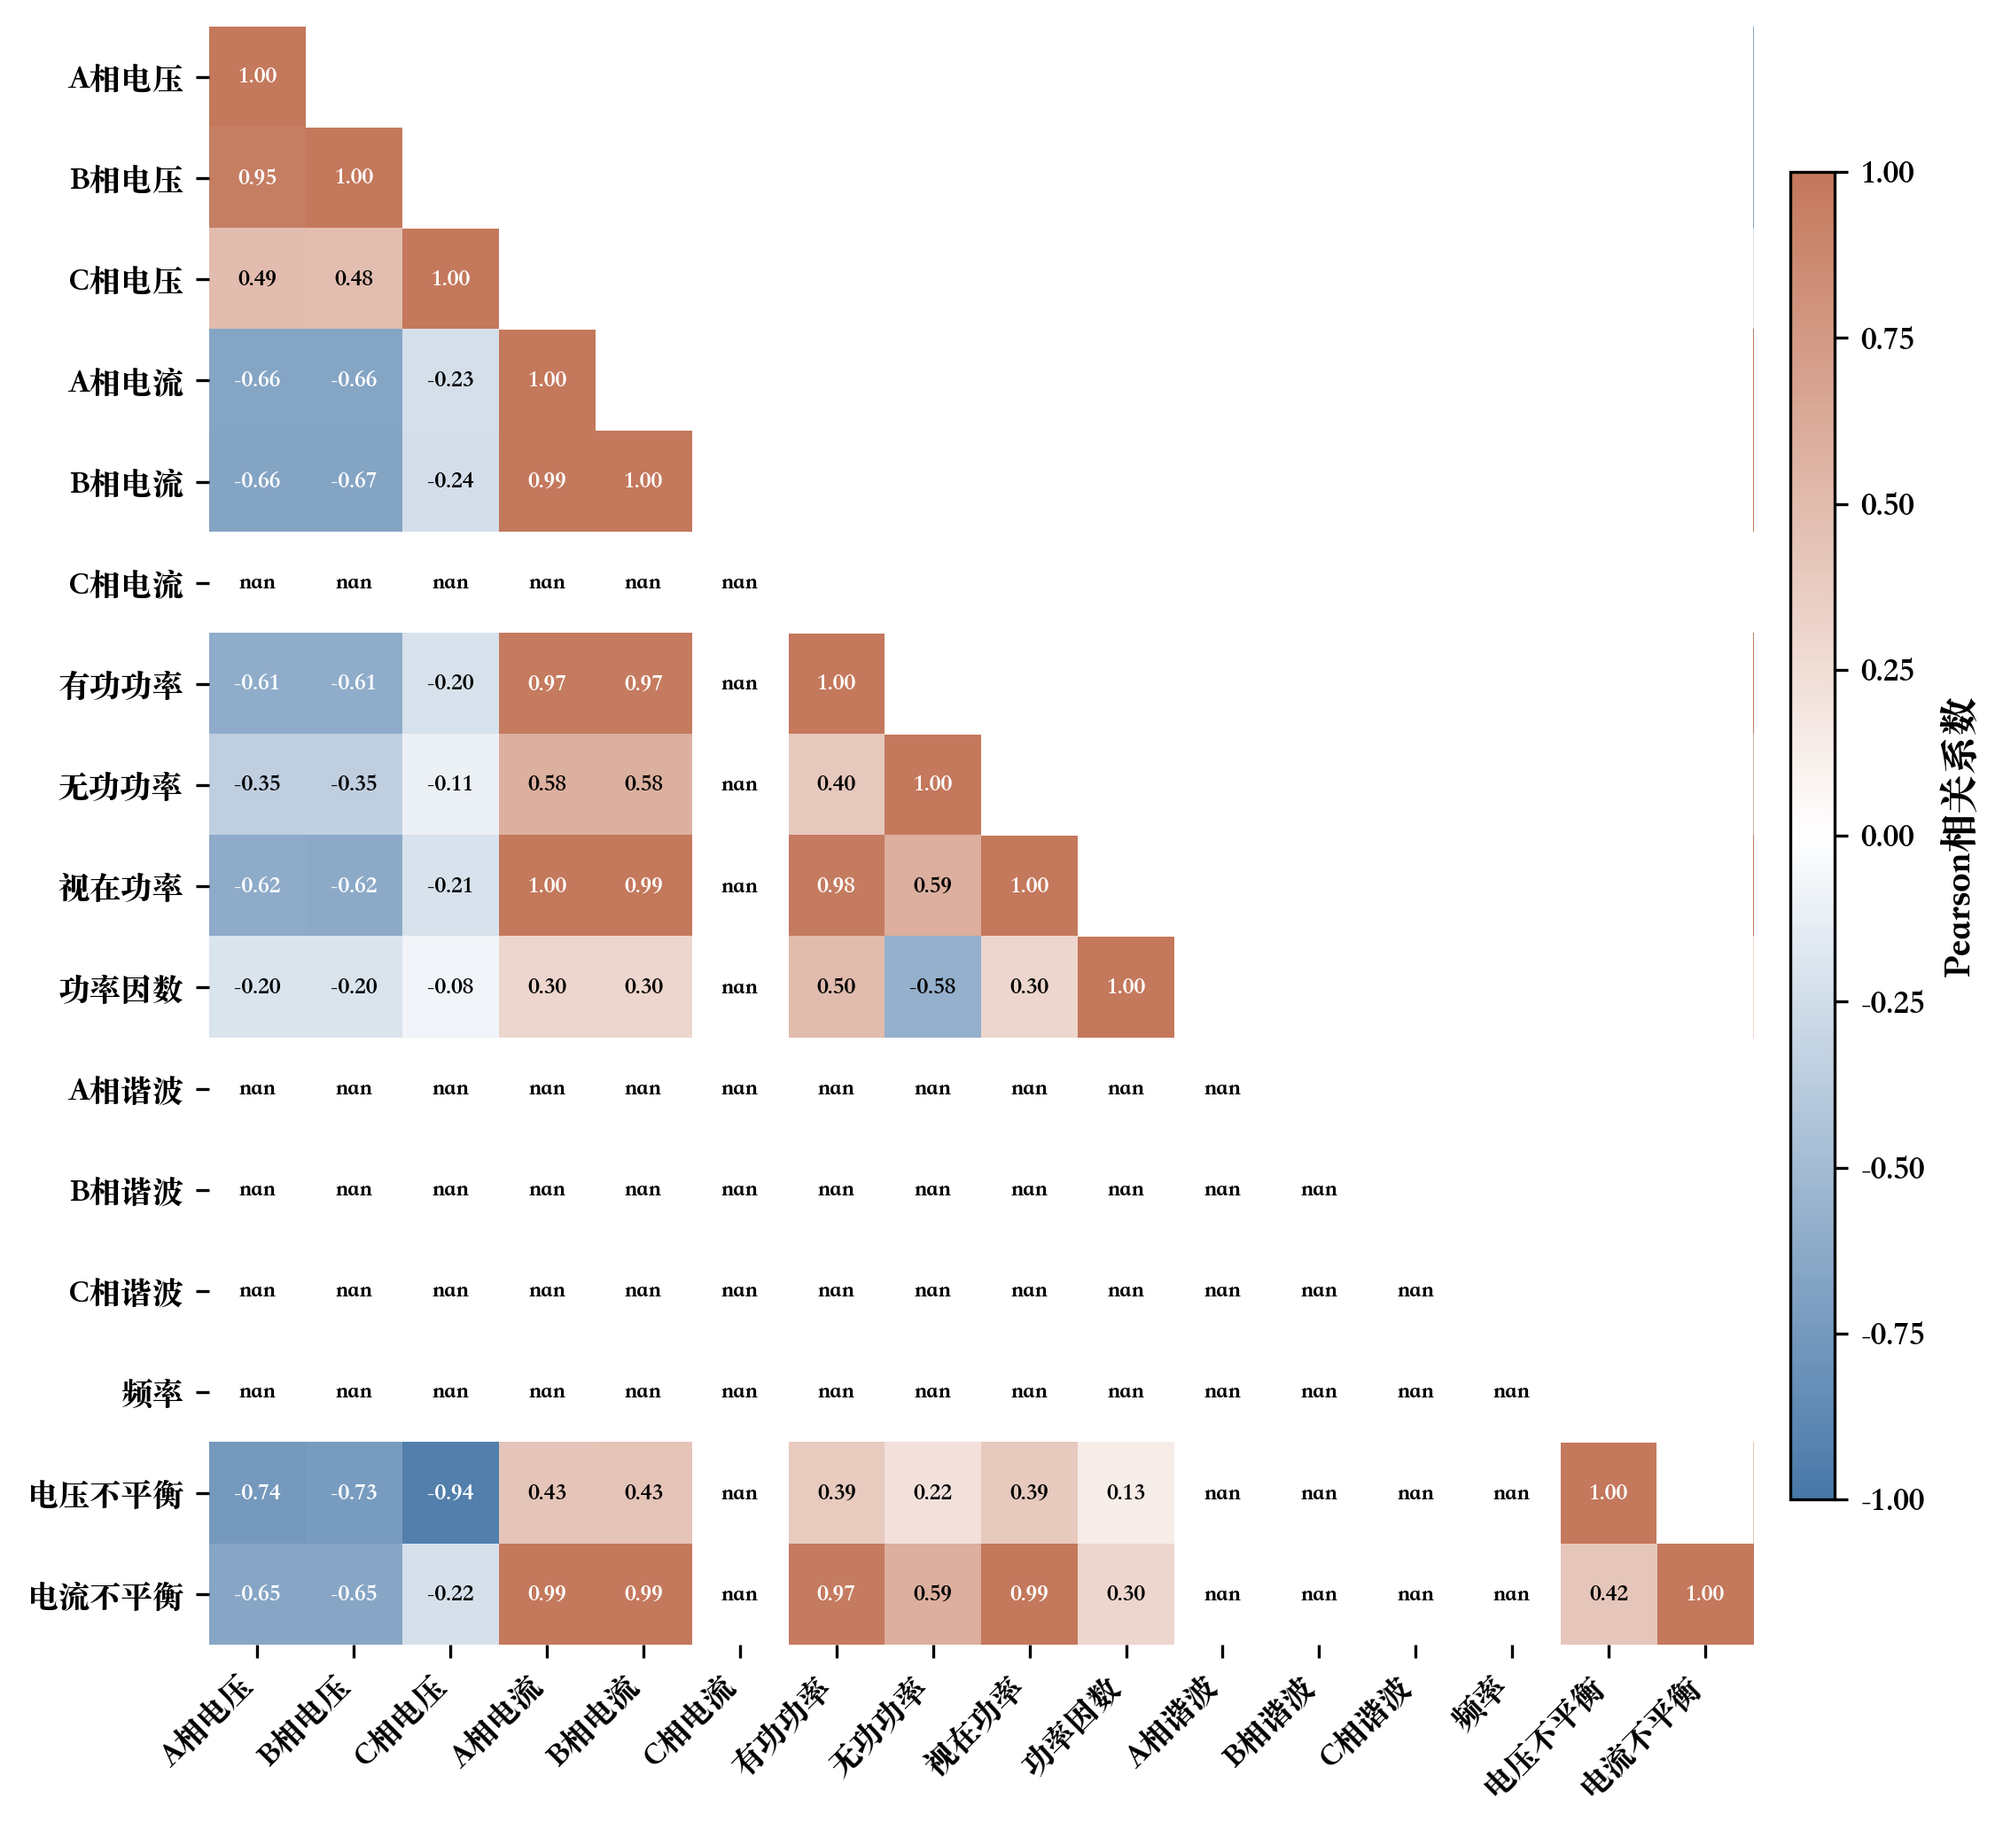
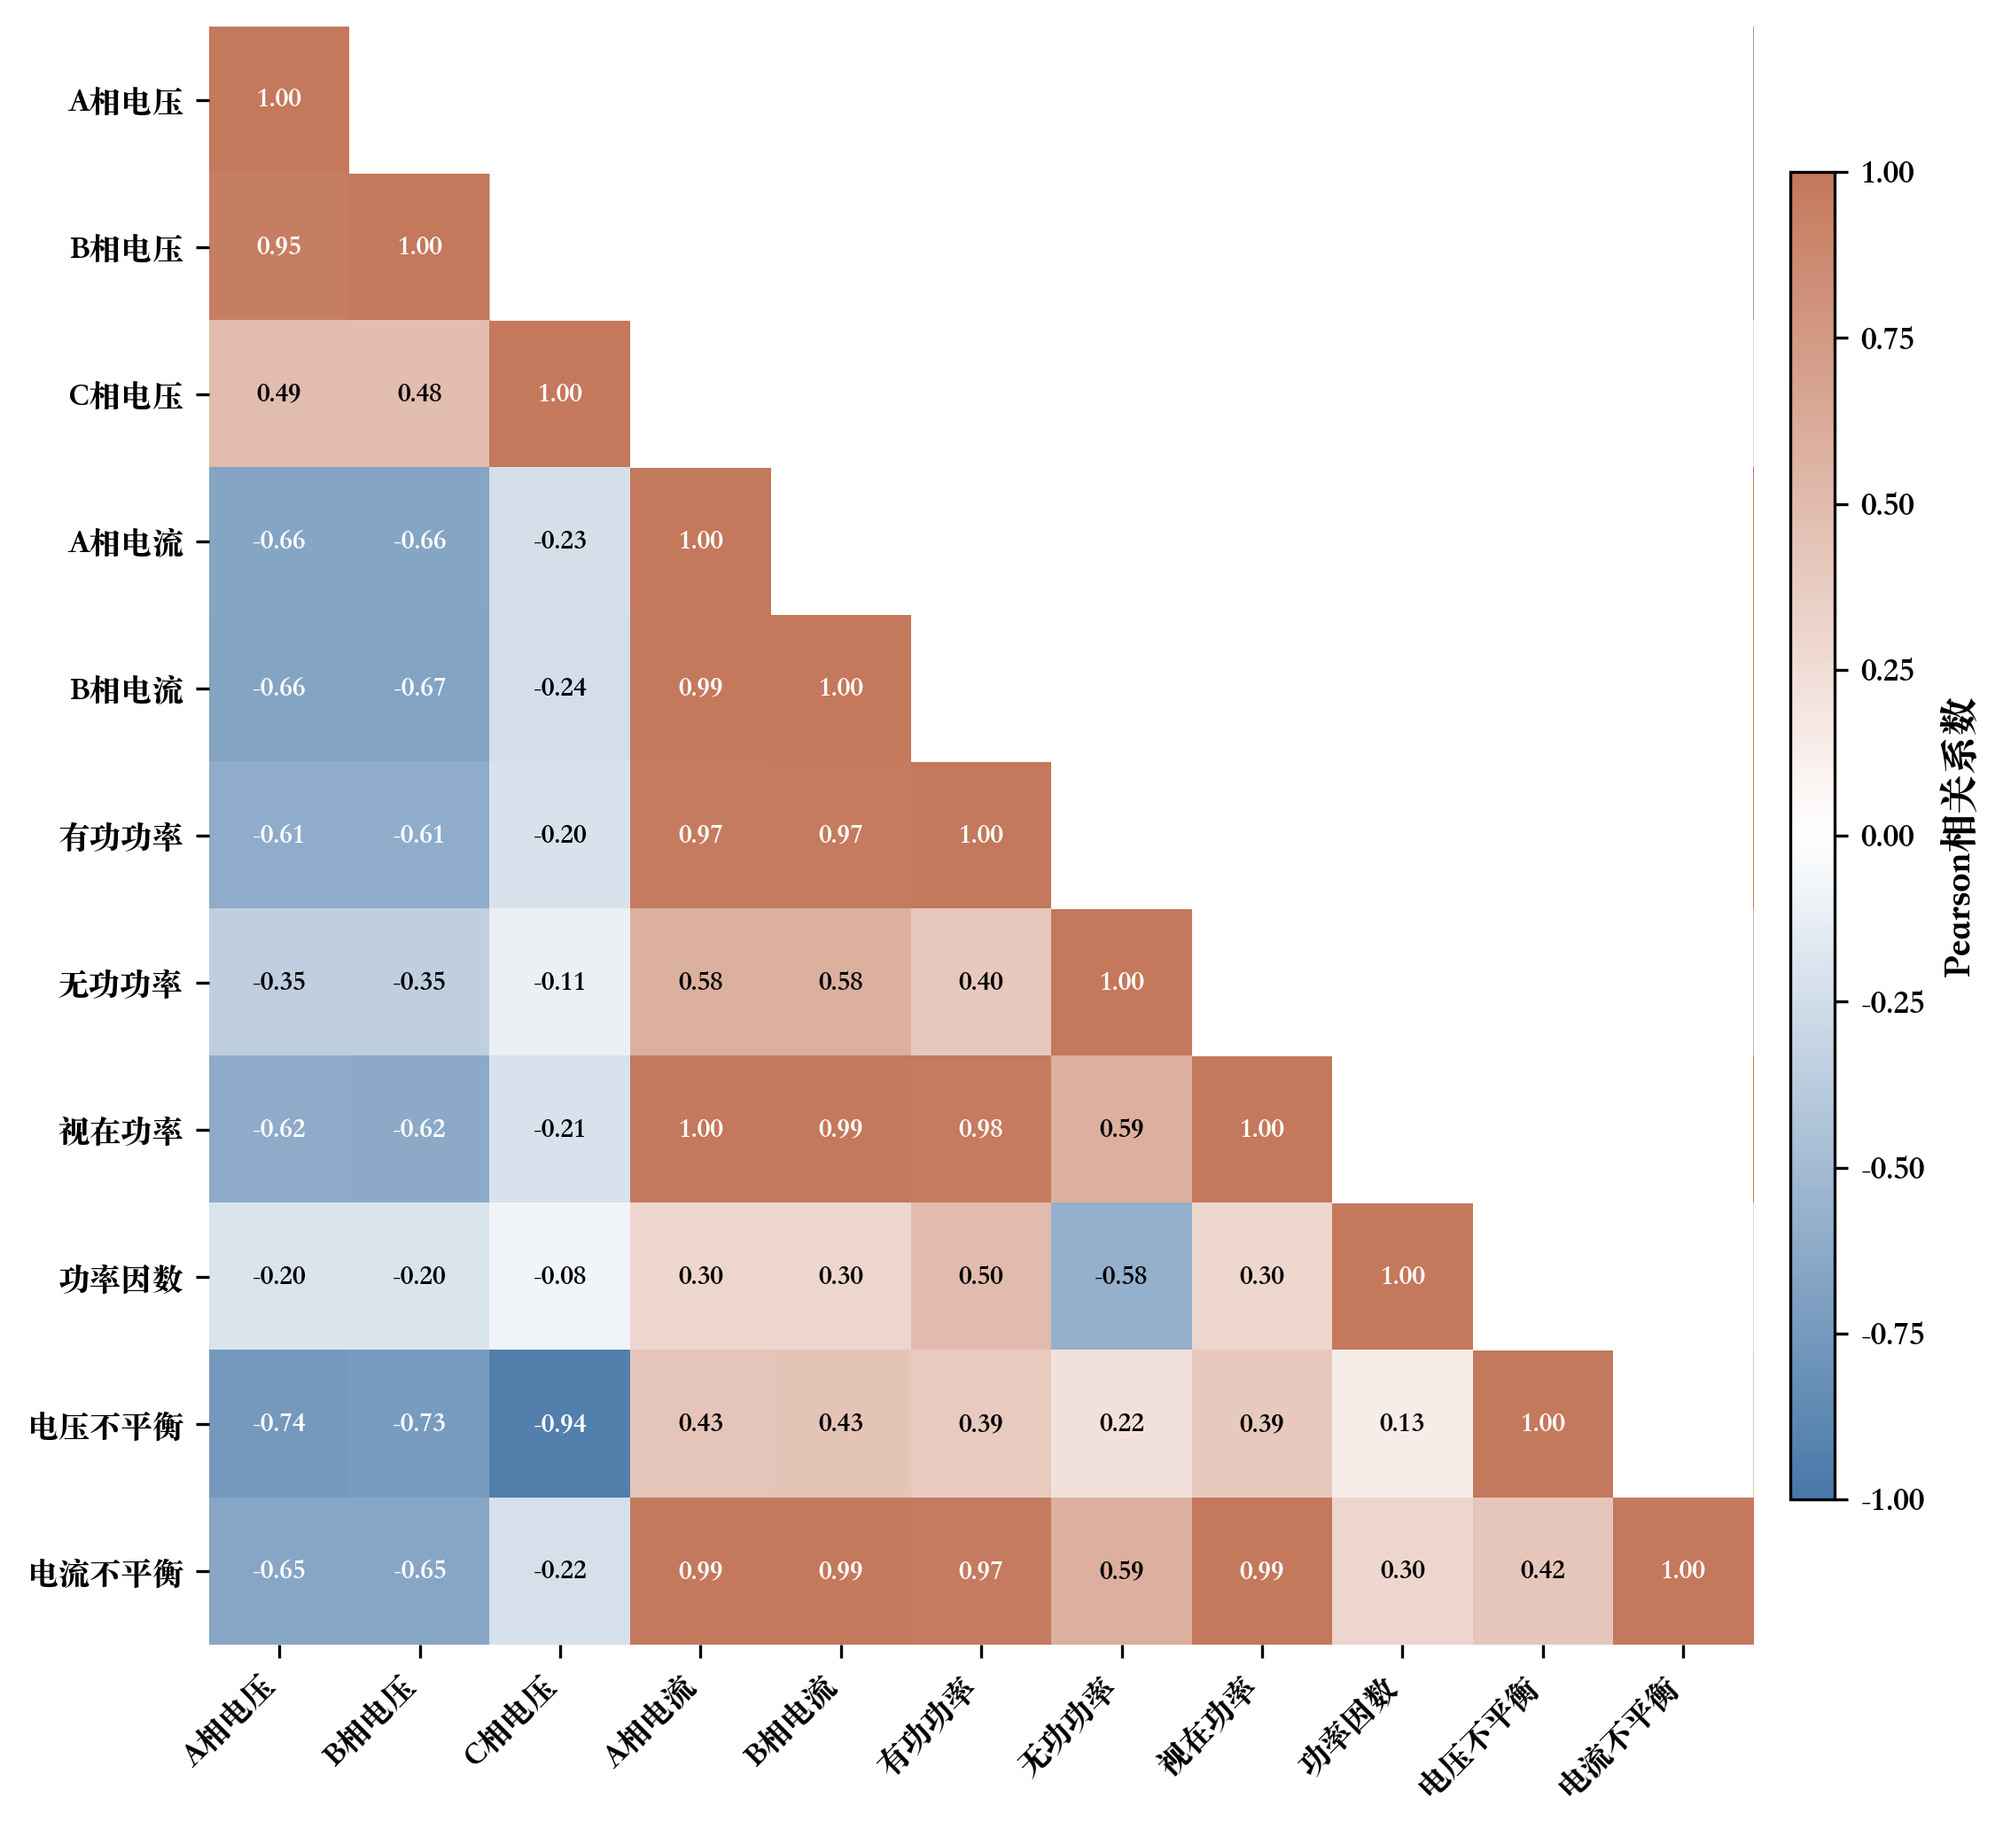
更改health map

diff --git a/code/figures/scripts/chap5/fig_5_sliding_window.py b/code/figures/scripts/chap5/fig_5_sliding_window.py
@@ -109,15 +109,23 @@ for i, (ws, we) in enumerate(windows[:5]):   # 只展示前5个窗口
 ax2.set_yticks([])
 ax2.set_xticks([])
 ax2.set_ylabel('窗口/Window', fontsize=10.5)
-# 标注步幅
-ax2.annotate('', xy=(windows[1][0], -0.25), xytext=(windows[0][0], -0.25),
-             arrowprops=dict(arrowstyle='<->', color='#555555', lw=1.0))
-ax2.text((windows[0][0] + windows[1][0]) / 2, -0.42,
-         f'步幅={stride}', ha='center', fontsize=8.5, color='#555555')
-ax2.annotate('', xy=(windows[0][1], -0.25), xytext=(windows[0][0], -0.25),
+# 标注步幅（上方）和序列长（下方），错开避免重叠
+y_arrow_stride = -0.15
+y_text_stride = -0.35
+y_arrow_seqlen = -0.55
+y_text_seqlen = -0.75
+# 序列长标注（放在下方）
+ax2.annotate('', xy=(windows[0][1], y_arrow_seqlen), xytext=(windows[0][0], y_arrow_seqlen),
              arrowprops=dict(arrowstyle='<->', color='#333333', lw=1.0))
-ax2.text((windows[0][0] + windows[0][1]) / 2, -0.42,
+ax2.text((windows[0][0] + windows[0][1]) / 2, y_text_seqlen,
          f'序列长={seq_len}', ha='center', fontsize=8.5, color='#333333')
+# 步幅标注（放在上方，较短）
+ax2.annotate('', xy=(windows[1][0], y_arrow_stride), xytext=(windows[0][0], y_arrow_stride),
+             arrowprops=dict(arrowstyle='<->', color='#555555', lw=1.0))
+ax2.text((windows[0][0] + windows[1][0]) / 2, y_text_stride,
+         f'步幅={stride}', ha='center', fontsize=8.5, color='#555555')
+# 扩展y轴范围以容纳标注
+ax2.set_ylim(-1.0, min(n_windows, 5) + 0.5)
 remove_spines(ax2)
 
 # ──────────────────────────────────────────────────────────────────

diff --git a/code/figures/scripts/chap2/fig_2_3_feature_correlation_heatmap.py b/code/figures/scripts/chap2/fig_2_3_feature_correlation_heatmap.py
@@ -58,6 +58,9 @@ def main():
             rename_map[col] = feature_names_zh[col]
     df = df.rename(columns=rename_map)
 
+    # 去除常数列和全NaN列（nunique=0 或 1，corr() 对这类列返回 NaN）
+    df = df.loc[:, df.nunique() > 1]
+
     # 计算相关系数矩阵
     corr = df.corr()
 
